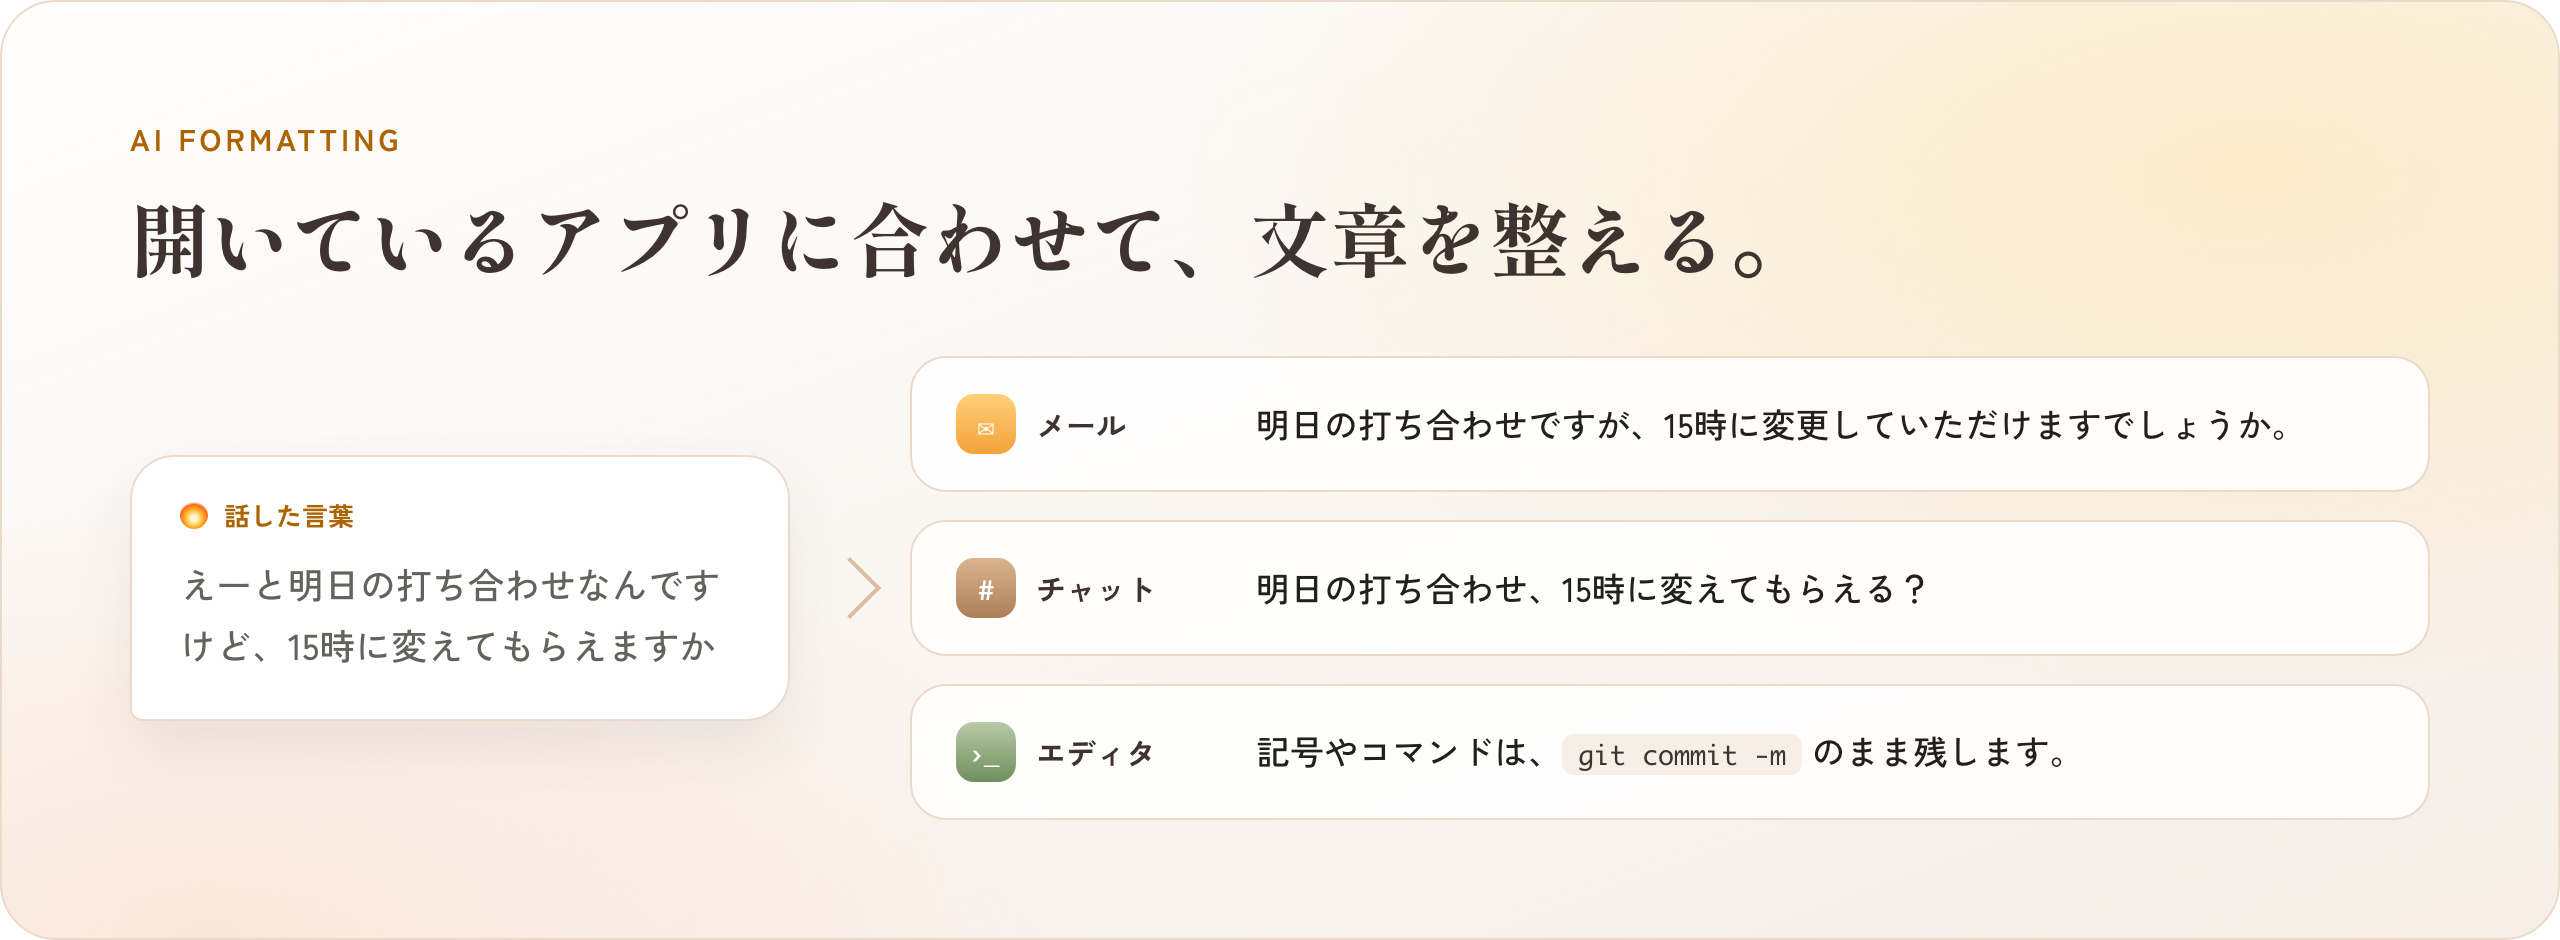
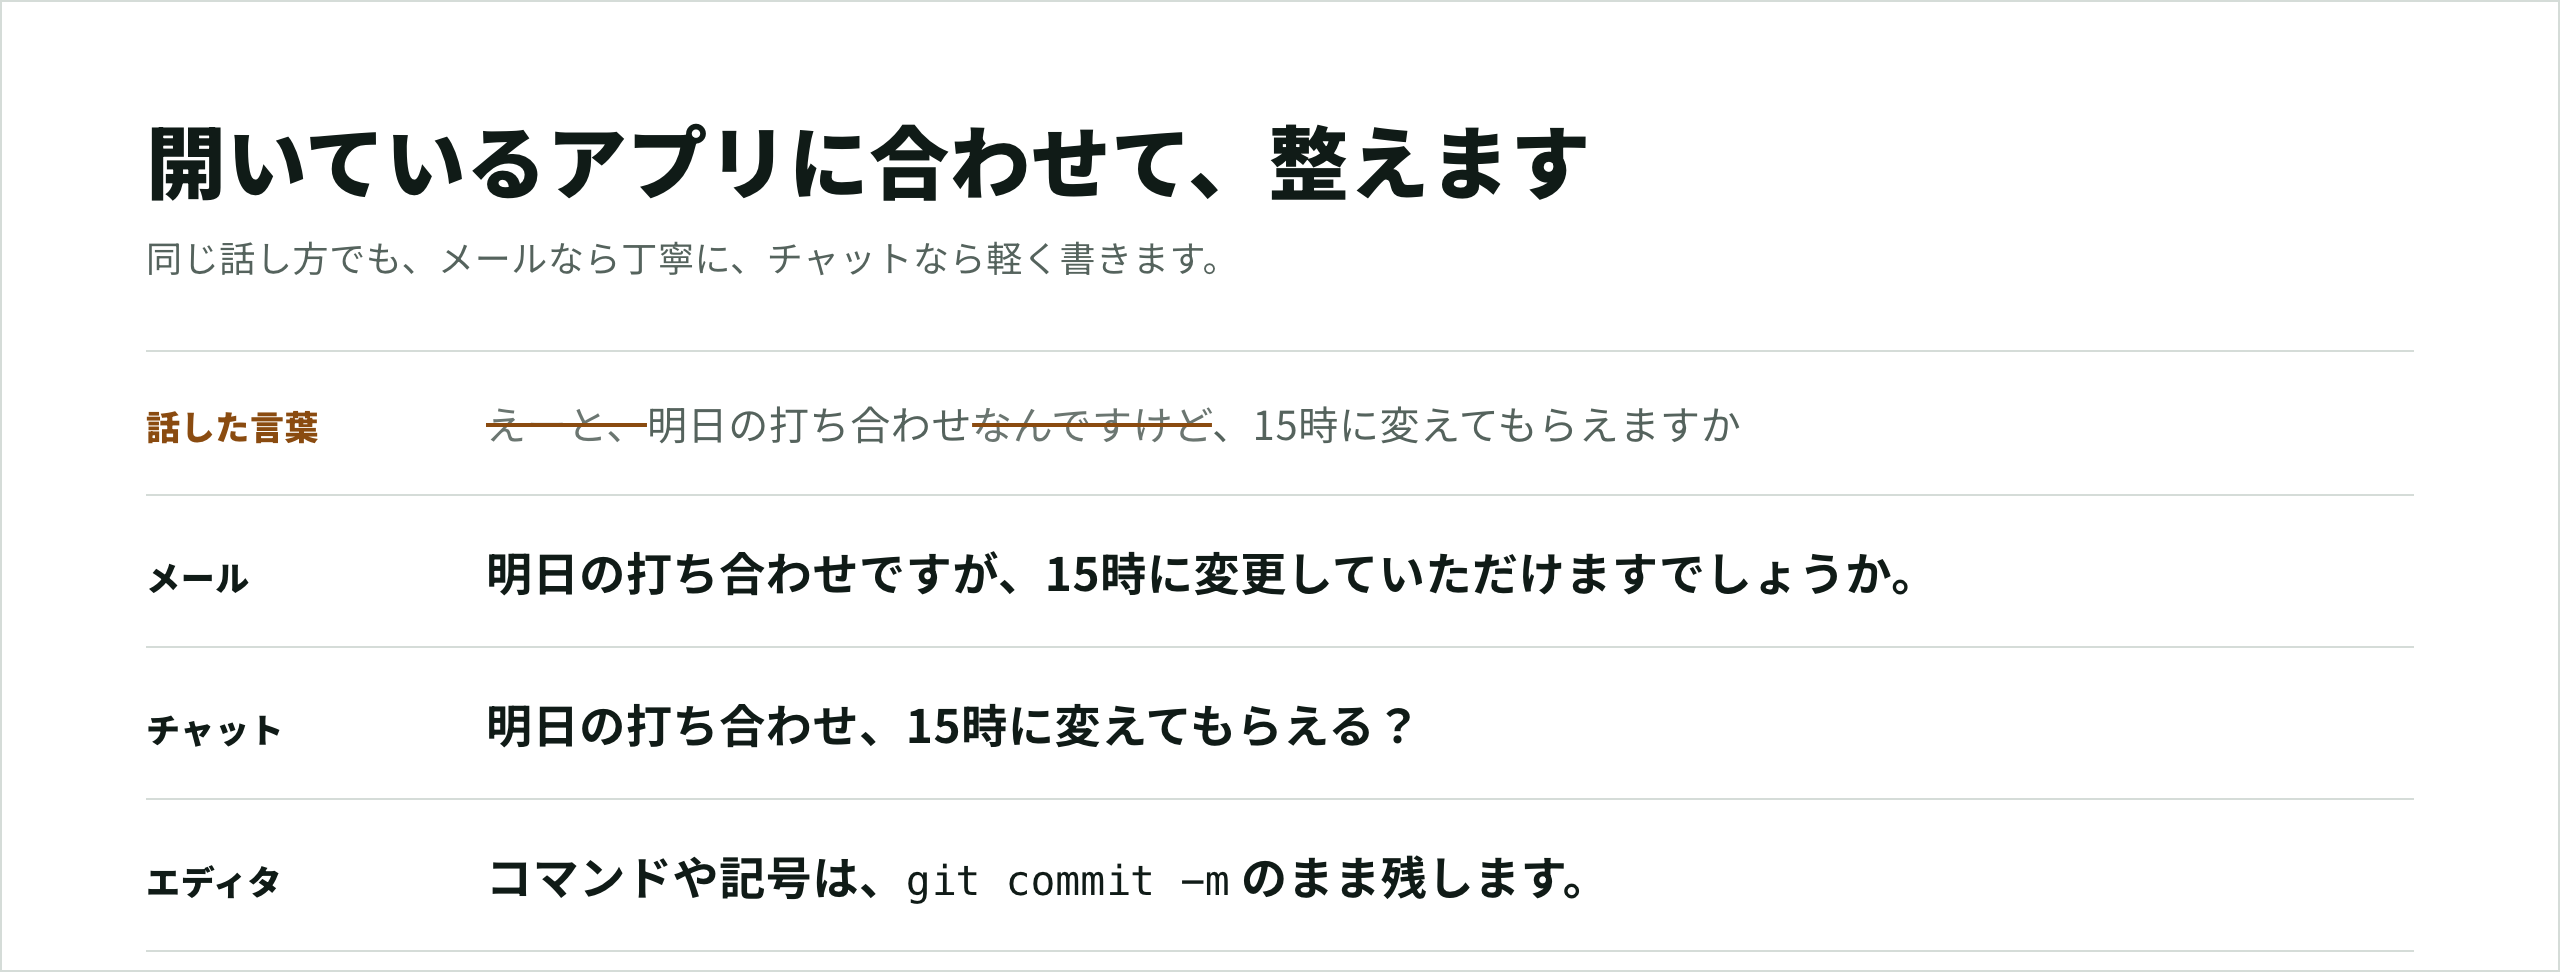
polish: 配布ページを会社LPと同じ見た目に作り直す
白地と細い罫線、Bodoniの製品名、極太のゴシック、琥珀色のボタンをthinka.techから引き継いだ。グラデーションや角丸のカード、浮いた部品をやめ、話した言葉と入る文章を並べて見せる形にした。

diff --git a/README.md b/README.md
@@ -1,30 +1,18 @@
-<p align="center">
-  <a href="https://github.com/syam4869/thinka-voice-releases/releases/latest">
-    <img src="assets/hero.png" alt="ThinkaVoice — 話す速さで、書ける。Mac用のAI音声入力" width="100%">
-  </a>
-</p>
+<a href="https://github.com/syam4869/thinka-voice-releases/releases/latest"><img src="assets/hero.png" alt="ThinkaVoice。話すだけで、文字になる。Mac用の音声入力アプリで、音声の処理はMacの中で完結します" width="100%"></a>
 
-<p align="center">
-  <a href="https://github.com/syam4869/thinka-voice-releases/releases/latest/download/ThinkaVoice.dmg">
-    <img src="assets/button.png" alt="Mac版をダウンロード(無料)" height="64">
-  </a>
-  <br>
-  <sub>macOS 14以降・Apple Silicon・<a href="https://github.com/syam4869/thinka-voice-releases/releases">リリース一覧</a>・<a href="#english">English</a></sub>
-</p>
+<a href="https://github.com/syam4869/thinka-voice-releases/releases/latest/download/ThinkaVoice.dmg"><img src="assets/button.png" alt="Mac版をダウンロード(無料・12MB)" height="60"></a>
 
-<br>
+<sub>macOS 14以降・Apple Silicon・<a href="https://github.com/syam4869/thinka-voice-releases/releases">リリース一覧</a>・<a href="#english">English</a></sub>
 
 ThinkaVoiceは、話した言葉をそのままカーソルの位置に入力するMac用のアプリです。メモでも、メールでも、Slackでも、文字を打てる場所ならどこでも使えます。
 
 音声の認識も文章の整形も、Macの中で行います。録音した声がサーバーに送られることはありません。
 
-## 使い方
+<img src="assets/howto.png" alt="使い方。fnを押す、話す、離すの3つで、整った文章がカーソルの位置に入る" width="100%">
 
-<img src="assets/howto.png" alt="Fnを押して、話して、離すと、整った文章がカーソルの位置に入る" width="100%">
+<img src="assets/context.png" alt="開いているアプリに合わせて整える。同じ話し言葉が、メールでは丁寧に、チャットでは軽く、エディタでは記号を残した形になる" width="100%">
 
 ## できること
-
-<img src="assets/context.png" alt="同じ話し言葉が、メールでは敬語に、チャットでは話し言葉に、エディタでは記号を残した形に整う" width="100%">
 
 | 機能 | 内容 |
 |---|---|
@@ -81,4 +69,8 @@ AppleのNotarizationを通した署名済みのビルドなので、そのまま
 
 ---
 
-<sub>このリポジトリは署名済みのビルドを配るためのものです。アプリのソースコードは公開していません。ThinkaVoiceは<a href="https://thinka.tech">Thinka</a>がつくっています。</sub>
+## つくった会社
+
+ThinkaVoiceは[Thinka](https://thinka.tech)が企画してつくり、配布しています。Thinkaは、アプリとWebサービスの開発を受けている会社です。
+
+<sub>このリポジトリは署名済みのビルドを配るためのものです。アプリのソースコードは公開していません。</sub>
